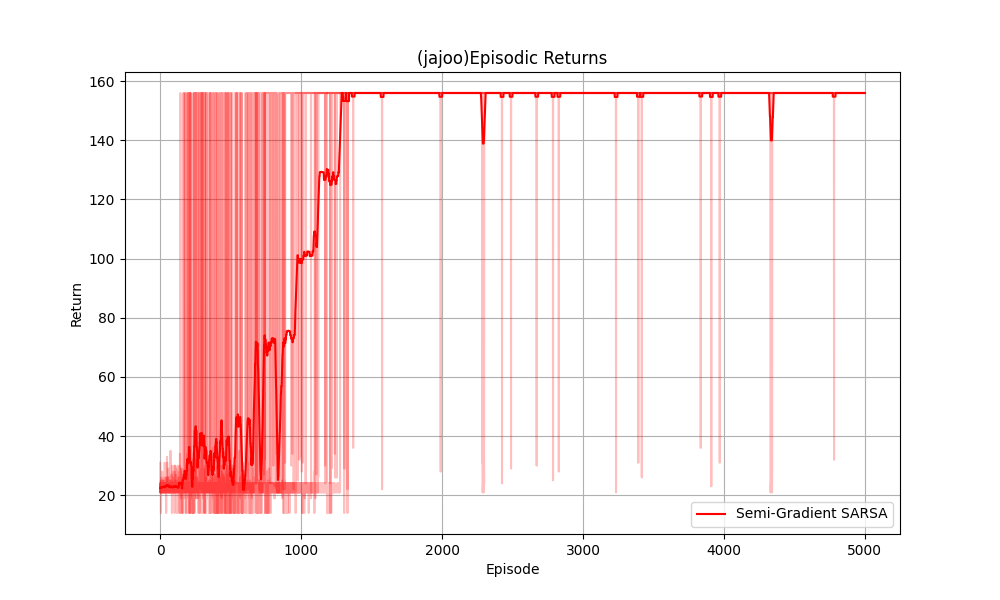
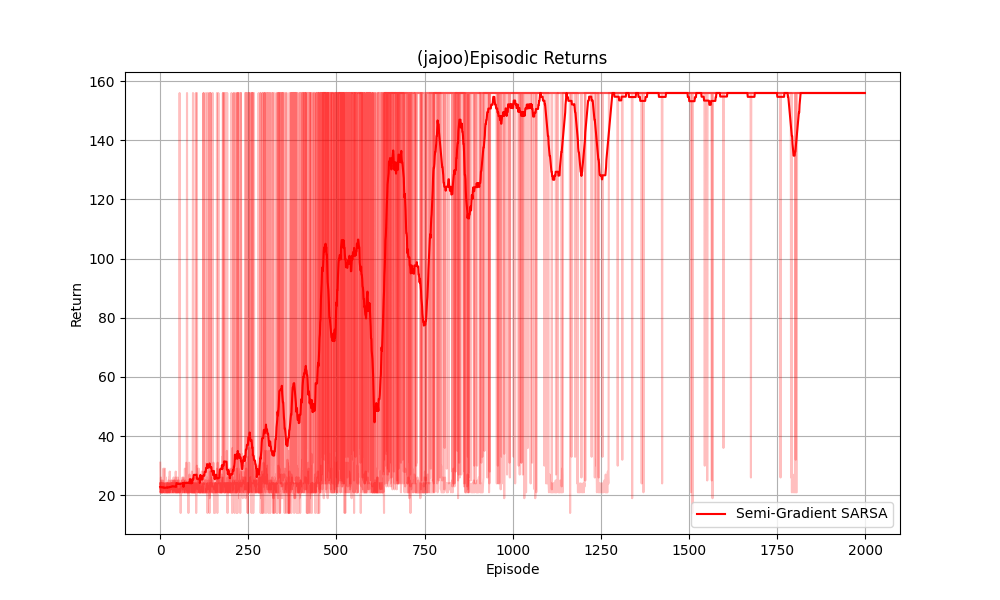
checkpoint for config 1 and 2

diff --git a/a2_folder/a2/feature_extraction.py b/a2_folder/a2/feature_extraction.py
@@ -1,31 +1,110 @@
 import numpy as np
+import matplotlib.pyplot as plt
+
 
 def terrible_feature_extractor(obs, action):
     
+    obs = np.flip(obs, axis=0)
     obs = obs[1:-1, 1:-1 ]
     obstacle, agent = component_extractor(obs)
 
     age_x, age_y, age_width, age_height = get_bounding_box(agent)
-    obs_x, obs_y, obs_width, obs_height = get_bounding_box(obstacle) 
+
+    try:
+        first_obstacle_mask = obstacle.copy()        
+        first_obstacle_mask[:, 3*obs.shape[0]//4:] = 0
+        # plt.imshow(first_obstacle_mask)
+        # plt.show()
+        # import ipdb; ipdb.set_trace()
+
+        second_obstacle_mask = obstacle.copy()
+        second_obstacle_mask[:, :3*obs.shape[0]//4] = 0
+        # plt.imshow(second_obstacle_mask)
+        # plt.show()
+        # import ipdb; ipdb.set_trace()
+
+
+        obs1_x, obs1_y, obs1_width, obs1_height = get_bounding_box(first_obstacle_mask)
+        obs2_x, obs2_y, obs2_width, obs2_height = get_bounding_box(second_obstacle_mask) 
+
+        jump_at_1 = obs1_x - obs1_height
+        jump_at_2 = obs2_x - obs2_height
+        # jump_here_1 = (age_x + age_width) == jump_at_1
+        # jump_here_2 = (age_x + age_width) == jump_at_2
+
+        dist_from_floor = obs1_y - age_y
+        if age_x + age_width < obs1_x:
+            dist_bet_o_a = obs1_x - age_x - age_width
+            dist_from_jump = jump_at_1 - (age_x + age_width)
+            jump_here = dist_from_jump == 0
+        elif age_x + age_width < obs2_x:
+            dist_bet_o_a = obs2_x - age_x - age_width
+            dist_from_jump = jump_at_2 - (age_x + age_width)
+            jump_here = dist_from_jump == 0
+        else:
+            dist_bet_o_a = 0
+            dist_from_jump = 0
+            jump_here = 0
+        
+        # if dist_bet_o1_a == 0:
+        #     dist_from_jump_1 = 0
+        # else:
+        #     dist_from_jump_1 = (obs1_x - obs1_height) - (age_x + age_width)
+        # if dist_bet_o2_a == 0:
+        #     dist_from_jump_2 = 0
+        # else:
+        #     dist_from_jump_2 = (obs2_x - obs2_height) - (age_x + age_width)
+        distances = np.array([dist_from_floor, dist_bet_o_a, dist_from_jump]) / obs.shape[0] # to prevent weights from blowing up
+        # distances = np.array([dist_from_floor, dist_bet_o1_a, dist_from_jump_1]) / obs.shape[0] # to prevent weights from blowing up
+
+
+        # only providing the jump point is sufficient for the agent to learn
+        # incorporating actions
+        # ac_0 = np.array([jump_here_1, not(jump_here_1)]) * (action == 0)
+        # ac_1 = np.array([jump_here_1, not(jump_here_1)]) * (action == 1)   
+        ac_0 = np.array([jump_here, not(jump_here)]) * (action == 0)
+        ac_1 = np.array([jump_here, not(jump_here)]) * (action == 1)  
+
+        # ac_1_0 = np.array([jump_here_1, not(jump_here_1)]) * (action == 0)
+        # ac_1_1 = np.array([jump_here_1, not(jump_here_1)]) * (action == 1)
+        # ac_2_0 = np.array([jump_here_2, not(jump_here_2)]) * (action == 0)
+        # ac_2_1 = np.array([jump_here_2, not(jump_here_2)]) * (action == 1)   
+
+    except:
+        obs_x, obs_y, obs_width, obs_height = get_bounding_box(obstacle)
+        jump_at = obs_x - obs_height
+        jump_here = (age_x + age_width) == jump_at
+
+        dist_from_floor = obs_y - age_y
+        dist_bet_o_a = obs_x - age_x - age_width
+        dist_from_jump = (obs_x - obs_height) - (age_x + age_width)
+        distances = np.array([dist_from_floor, dist_bet_o_a, dist_from_jump]) / obs.shape[0] # normalizing to prevent weights from blowing up
+
+        # only providing the jump point is sufficient for the agent to learn
+        # incorporating actions
+        ac_0 = np.array([jump_here, not(jump_here)]) * (action == 0)
+        ac_1 = np.array([jump_here, not(jump_here)]) * (action == 1)   
+
+    # dist_from_floor = age_y - obs_y
+    # dist_bet_o_a = obs_x - (age_x + age_width)
+    # jump_at = obs_x - obs_height
+    # dist_from_jump = (obs_x - obs_height) - (age_x + age_width)
+    # distances = np.array([dist_from_floor, dist_bet_o_a, dist_from_jump])
+
+    # obs_x, obs_y, obs_width, obs_height = get_bounding_box(obstacle)
+    # jump_at = obs_x - obs_height
+    # jump_points = (age_x + age_width) == jump_at
+        # jump_points.append(jump_now)
+
+    # distances = np.array(distances) / obs.shape[0] # to prevent weights from blowing up
+
     
-    dist_from_floor = obs_y - age_y
-    dist_bet_o_a = obs_x - age_x - age_width
-    jump_coords = obs_x - obs_height
-    jump_here = (age_x + age_width) == jump_coords
-    dist_from_jump = (obs_x - obs_height) - (age_x + age_width)
+     
 
-    distances = np.array([dist_from_floor, dist_bet_o_a, dist_from_jump]) / obs.shape[0]
-    # jump_now = (age_x + age_width) == jump_point
-
-    ac_0 = np.array([jump_here, not(jump_here)]) * (action == 0)
-    ac_1 = np.array([jump_here, not(jump_here)]) * (action == 1)
-
-    feat = np.concat((ac_0, ac_1, distances)) #np.concat(agent_pos, obstacle_pos)
+    feat = np.concat((ac_0, ac_1, distances))
+    # feat = np.concatenate((ac_1_0, ac_1_1, ac_2_0, ac_2_1, distances))
     
-
-    # import ipdb; ipdb.set_trace()
     return feat
-
 
 def component_extractor(obs):
     obstacle = obs == 0.5
@@ -45,15 +124,15 @@ def get_bounding_box(mask):
     y_max, x_max = coords.max(axis=0)
     return x_min, y_min, (x_max - x_min + 1), (y_max - y_min + 1)
 
+# def get_all_bounding_boxes(mask):
+#     """Finds bounding boxes of all connected components in the mask."""
+#     labeled, num_features = ndimage.label(mask)
+#     bounding_boxes = []
 
-def gen_masks(obs):
-    
-    obstacle_mask = obs == 0.5
-    
-    floor_mask = obs == 1
-    floor_row = np.argmax(np.sum(floor_mask, 1))
-    
-    agent_mask = obs == 1
-    agent_mask[floor_row, :] = False
-    
-    return obstacle_mask, agent_mask
+#     for i in range(1, num_features + 1):
+#         component_mask = (labeled == i)
+#         bounding_box = get_bounding_box(component_mask)
+#         if bounding_box:
+#             bounding_boxes.append(bounding_box)
+
+#     return bounding_boxes

diff --git a/a2_folder/a2/train_jumping_task.py b/a2_folder/a2/train_jumping_task.py
@@ -6,7 +6,6 @@ import semi_gradient_sarsa
 import matplotlib.pyplot as plt
 import jumping_task
 from jumping_task.envs import JumpTaskEnv
-# import feature_extraction
 import feature_extraction
 import epsilon_greedy_explorers
 
@@ -93,8 +92,8 @@ def get_env(config_num, render=False):
 if __name__ == '__main__':
     parser = argparse.ArgumentParser()
     parser.add_argument("--config", help="Which environment", type=int, choices=[1,2,3], default=1)
-    parser.add_argument("--num-training-episodes", help="How many episodes you want to train your agent", default=5000, type=int) #default 5000
-    parser.add_argument("--num-seeds", help="How many episodes you want to train your agent", default=5, type=int)
+    parser.add_argument("--num-training-episodes", help="How many episodes you want to train your agent", default=10000, type=int) #default 5000
+    parser.add_argument("--num-seeds", help="How many episodes you want to train your agent", default=1, type=int)
     parser.add_argument("--render", action='store_true')
     parser.add_argument("--seed", type=int, default=1)
     args = parser.parse_args()
@@ -103,10 +102,11 @@ if __name__ == '__main__':
     num_actions = env.action_space.n
 
     initial_epsilon = 1.0
-    min_epsilon = 0.0001
+    min_epsilon = 0.000
     decay_rate = 0.995
 
     feature_extractor = feature_extraction.terrible_feature_extractor
+    config=args.config
     num_features = len(feature_extractor(env.reset()[0], 0))
     sarsa_episode_returns_list = []
     sarsa_episode_success_list = []
@@ -120,7 +120,7 @@ if __name__ == '__main__':
         # import ipdb; ipdb.set_trace()
         # epsilon *= 1/max(1, int(np.sum(sarsa_episode_success_list[-1:][-5:]))) #max(1, sum(sarsa_episode_success_list[-1][-5:]))
 
-        agent = semi_gradient_sarsa.SemiGradientSARSA(num_features, num_actions, feature_extractor, step_size = 0.03, explorer = explorer, discount = 0.99, initial_weight_value = 0.0, n_step = 10) # initial weight was 10. default
+        agent = semi_gradient_sarsa.SemiGradientSARSA(num_features, num_actions, feature_extractor, step_size = 0.03, explorer = explorer, discount = 0.99, initial_weight_value = 10.0, n_step = 7) # initial weight was 10. default
         episode_returns_sarsa = agent_environment.agent_environment_episode_loop(agent, env, args.num_training_episodes)
         episode_successes = [1 if episode_return > 140 else 0 for episode_return in episode_returns_sarsa]
         sarsa_episode_returns_list.append(episode_returns_sarsa)

diff --git a/a2_folder/a2/epsilon_greedy_explorers.py b/a2_folder/a2/epsilon_greedy_explorers.py
@@ -45,4 +45,4 @@ class ConstantEpsilonGreedyExploration:
         return np.random.choice(len(action_probs), p=action_probs)
     
     def decay_epsilon(self):
-            self.epsilon = max(self.min_epsilon, self.epsilon * self.decay_rate)
+        self.epsilon = max(self.min_epsilon, self.epsilon * self.decay_rate)
